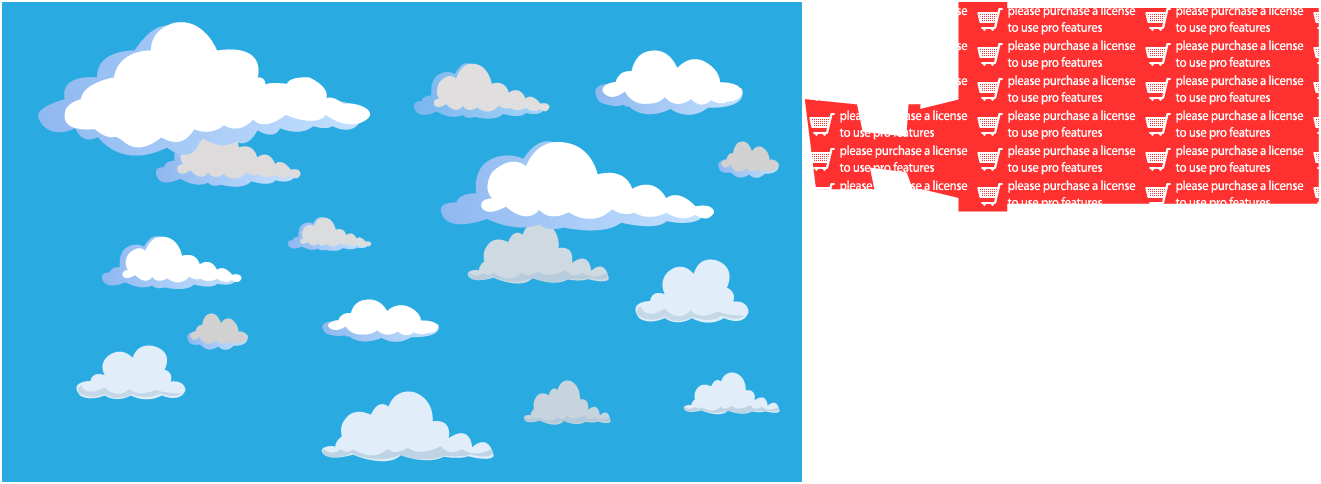
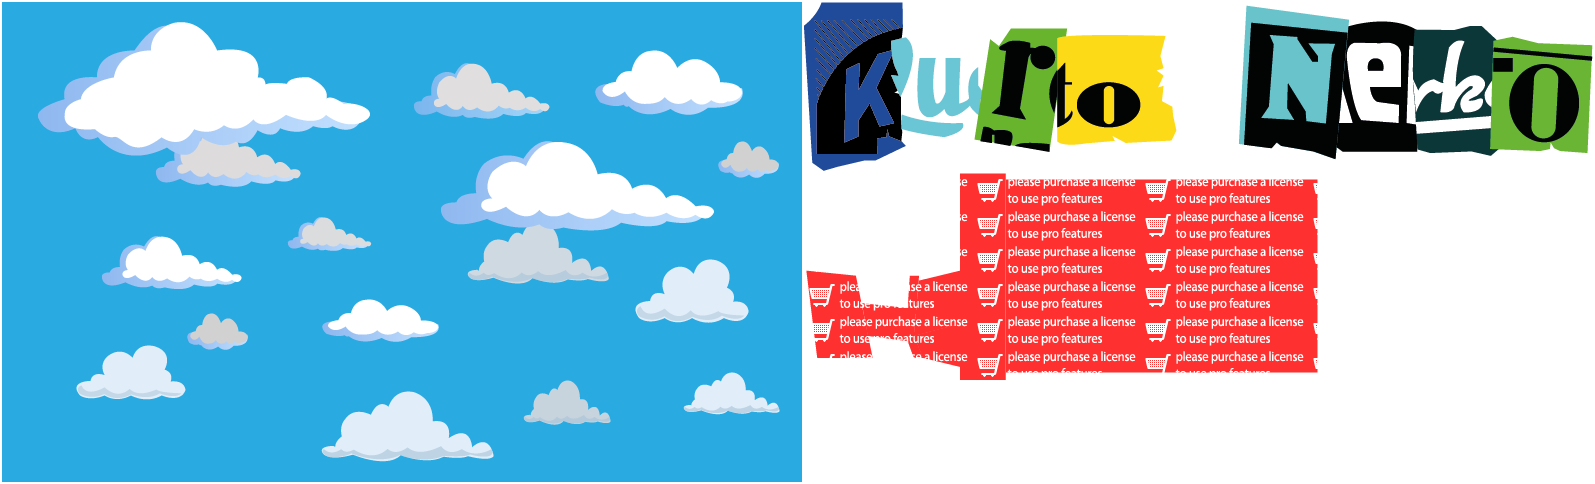
nuevas imagenes jet y titulo

diff --git a/Shoppu/src/com/me/screens/MainMenu.java b/Shoppu/src/com/me/screens/MainMenu.java
@@ -3,6 +3,7 @@ package com.me.screens;
 import com.badlogic.gdx.graphics.g2d.TextureRegion;
 import com.badlogic.gdx.scenes.scene2d.InputEvent;
 import com.badlogic.gdx.scenes.scene2d.InputListener;
+import com.badlogic.gdx.scenes.scene2d.ui.Image;
 import com.badlogic.gdx.scenes.scene2d.ui.ImageButton;
 import com.badlogic.gdx.scenes.scene2d.utils.TextureRegionDrawable;
 import com.esotericsoftware.spine.SkeletonRenderer;
@@ -16,10 +17,15 @@ public class MainMenu extends Screens{
 
 	Gato oGato;
 	ImageButton btnEmpezar;
+	Image titulo;
 	
 	public MainMenu(final MainShoppu game) {
 		super(game);
 		oGato = new Gato(SCREEN_WIDTH/5f, SCREEN_HEIGHT/2f);
+		
+		titulo = new Image(Assets.Titulo);
+		titulo.setSize(789, 169);
+		titulo.setPosition(5,SCREEN_HEIGHT / 2 );
 		
 		btnEmpezar = new ImageButton(new TextureRegionDrawable(Assets.btnEmpezar));
 		btnEmpezar.setPosition(SCREEN_WIDTH / 2f  - btnEmpezar.getWidth() /2f, SCREEN_HEIGHT / 2f - btnEmpezar.getHeight()/2f);
@@ -40,7 +46,8 @@ public class MainMenu extends Screens{
 				Assets.oClick.play();
 			}
 		});
-		
+
+		stage.addActor(titulo);
 		stage.addActor(btnEmpezar);
 		
 	}

diff --git a/Shoppu/src/com/me/mygdxgame/Assets.java b/Shoppu/src/com/me/mygdxgame/Assets.java
@@ -28,6 +28,7 @@ public class Assets {
 	public static AtlasRegion volando;
 
 	public static AtlasRegion pelusa;
+	public static AtlasRegion Titulo;
 	public static AtlasRegion btnLeaderBoard;
 	public static AtlasRegion btnEmpezar;
 	public static AtlasRegion btntyagain;
@@ -180,10 +181,11 @@ public class Assets {
 		
 		moneda = new Animation(0.05f, mo1,mo2,mo3,mo4,mo5,mo6,mo7,mo8,mo9,mo10);
 		
-		Jet = atlas.findRegion("siguiente");
+		Jet = atlas.findRegion("listen");
 
 		volando = atlas.findRegion("volando");
 		
+		Titulo = atlas2.findRegion("titulo");
 		pelusa = atlas.findRegion("pelusa");
 		posteluz = atlas.findRegion("postemaderasolo");
 		postecat = atlas.findRegion("postemadera");

diff --git a/Shoppu/src/com/me/game/WorldGameRender.java b/Shoppu/src/com/me/game/WorldGameRender.java
@@ -118,8 +118,11 @@ public class WorldGameRender {
 			// true es que la aniimacion se repeteria muchas veces
 			keyframe = Assets.Jet;
 
-			batcher.draw(keyframe, objJet.posicion.x - .15f,
+			batcher.draw(keyframe, objJet.posicion.x - .13f,
+					objJet.posicion.y - .11f, .25f, .22f);
+		/*	batcher.draw(keyframe, objJet.posicion.x - .15f,
 					objJet.posicion.y - .18f, .32f, .39f);
+					*/
 		}
 	}
 
